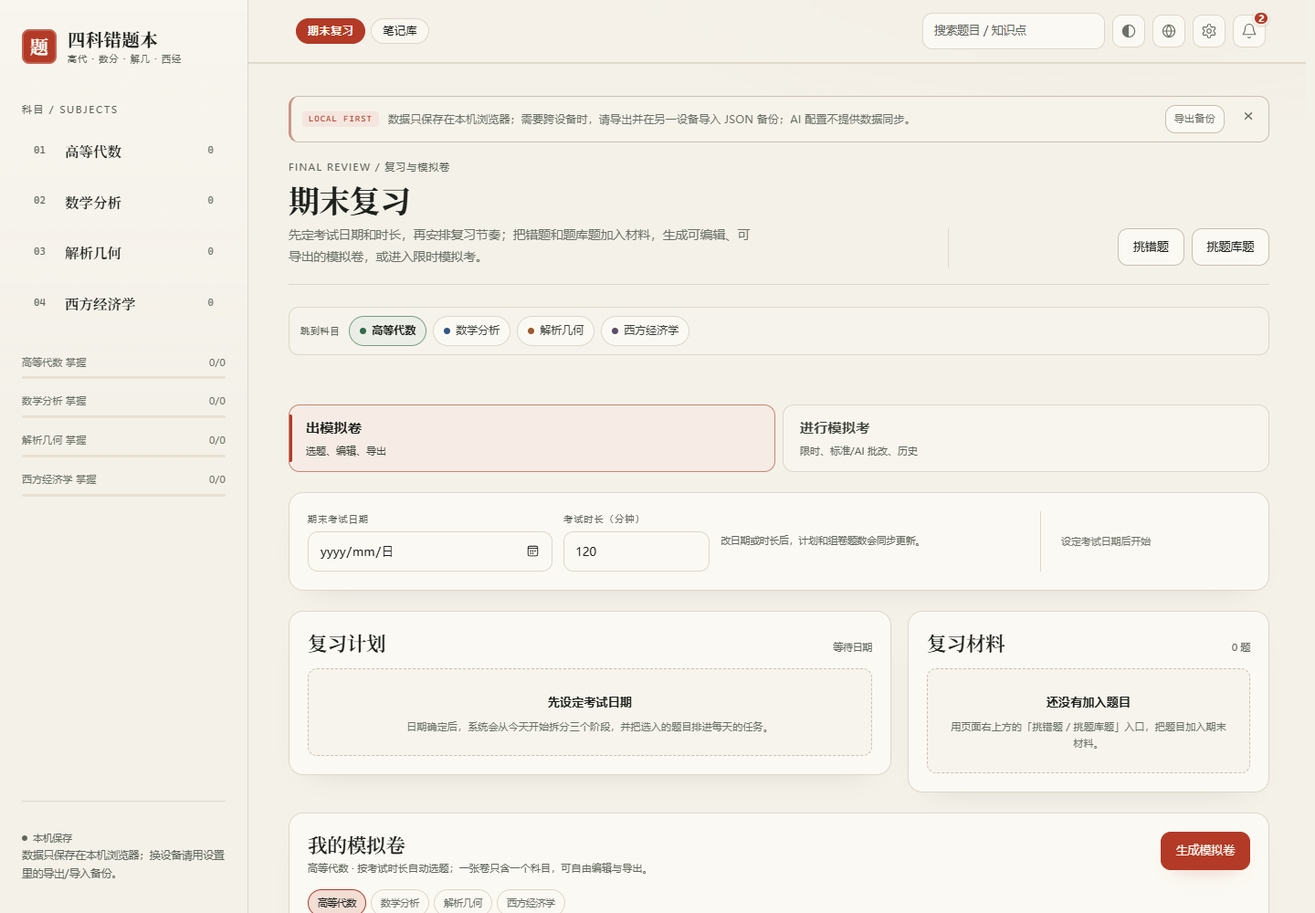
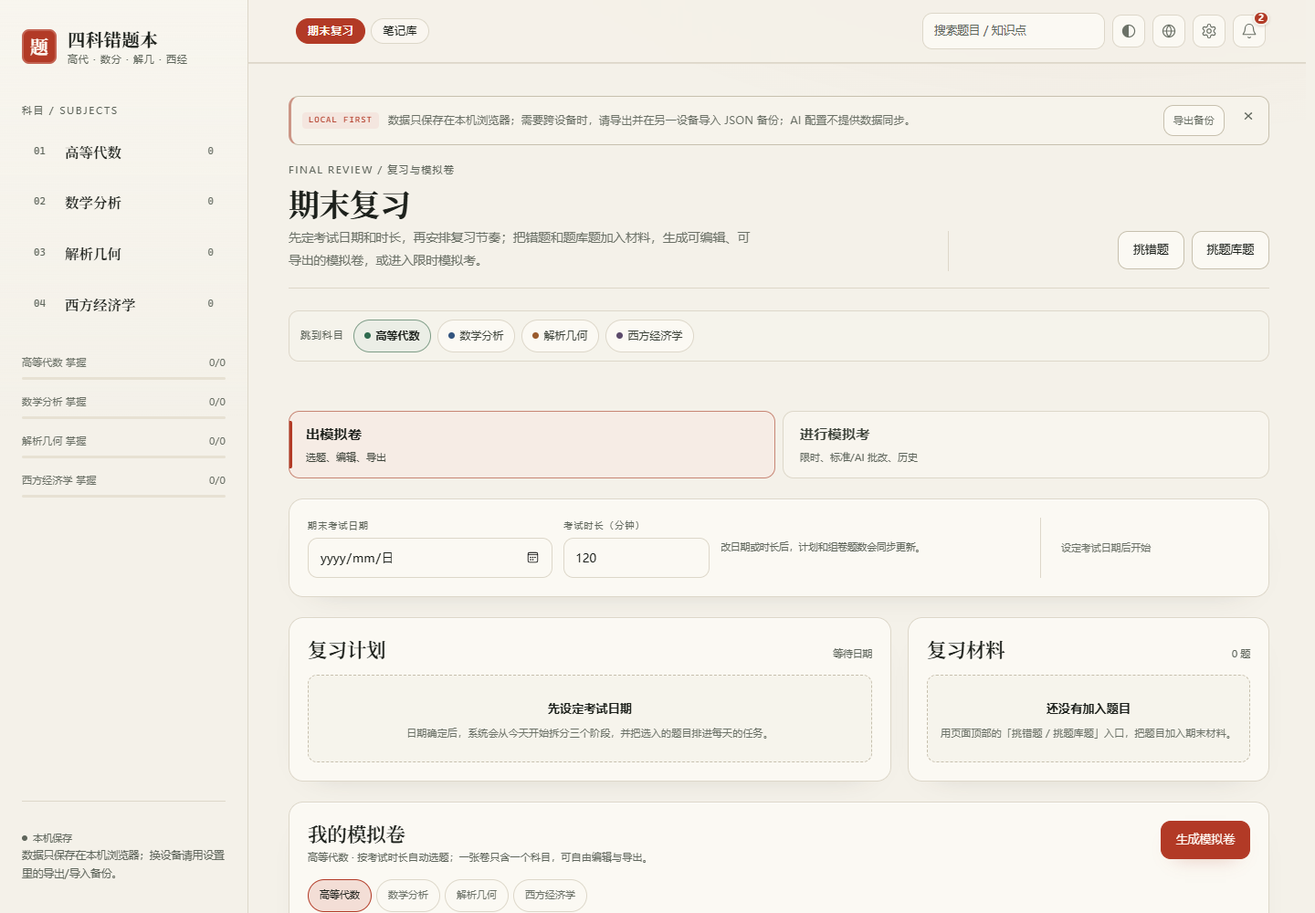
2026.11.10-27cec223: full-site touch, helper text and night CTA calibration

diff --git a/src/js/48-changelog.js b/src/js/48-changelog.js
@@ -6,9 +6,9 @@ var __BUILD_DAY = __BUILD_DAY_MATCH ? __BUILD_DAY_MATCH[1] + '-' + __BUILD_DAY_M
 var UPDATE_LOG = [
   {
     date: '2026-11-10',
-    title: '界面回退与真实进度',
-    historyTitle: '界面回退与真实进度',
-    summary: '在 11-10 已完成的界面与记录校准基础上，本轮把全站配色与版式恢复为 2026.11.10-2ea474da：暖米色纸面、砖红强调、巨型衬线问候、英文大写小标签、卡片和装饰阴影回到原样，首页恢复按小时变化的问候和用户称呼，欢迎弹窗恢复原有文字、图标、按钮与卡片；同时保留错题智能录入、AI 出题、AI 批改、笔记导入导出、扫描 OCR 等长任务的真实阶段、真实计数与真实等待时间。本块累计 19 项 / 19 组，56 项测试、严格 QA、站点一致性与 390 / 820 / 1440 检查通过。',
+    title: '界面回退与三端收口',
+    historyTitle: '界面回退与三端收口',
+    summary: '本轮把全站配色与版式恢复为 2026.11.10-2ea474da：暖米色纸面、砖红强调、巨型衬线问候、英文大写小标签、卡片和装饰阴影回到原样，首页恢复按小时变化的问候和用户称呼，欢迎弹窗恢复原有文字、图标、按钮与卡片；同时保留错题智能录入、AI 出题、AI 批改、笔记导入导出、扫描 OCR 等长任务的真实阶段、真实计数与真实等待时间，并收口三端触控尺寸、辅助字号与深夜科目指引。本块累计 22 项 / 22 组，57 项测试、严格 QA、站点一致性与 390 / 820 / 1440 检查通过。',
     items: [
       {
         group: '规范表格',
@@ -32,7 +32,7 @@ var UPDATE_LOG = [
       },
       {
         group: '触控可读',
-        text: '补充手机与平板的触控尺寸：页签、题库来源、期末科目与跳转按钮至少 40–44px；笔记库辅助标签、设置分区标记统一到 10px；品牌副标题改用更深的辅助色，提升小字对比度。',
+        text: '手机端顶栏与页脚图标统一到 40×40px，平板与桌面保持 36px；清空筛选、期末科目、科目跳转与模板复制按钮至少 34–40px，次级操作按钮统一 34px，不再出现 25–32px 的小点击区域；品牌副标题、页脚小标签与状态说明提升到 10.5–11px。',
       },
       {
         group: '题库卡片',
@@ -71,6 +71,18 @@ var UPDATE_LOG = [
         text: '390 / 820 / 1440 复查首页问候、欢迎弹窗、错题、题库、模板、规范、笔记、期末与更新记录：暖色样式一致，无横向溢出、无脚本错误，真实进度条保持原功能。',
       },
       {
+        group: '深夜文案',
+        text: '首页科目入口标题随小时切换：23:00–05:00 显示「明天想从哪一科继续？」，白天保持「想从哪一科开始？」；深夜不再一边劝休息一边催现在开始。',
+      },
+      {
+        group: '字号层级',
+        text: '统一三端辅助字号：品牌副标题 10.5px，首页提示与计数、筛选计数、科目跳转标签 11px，通知角标 10px，笔记分区标签 10px，避免 8.5–9.5px 的不可读小字。',
+      },
+      {
+        group: '期末指引',
+        text: '期末复习材料空态把「页面右上方」改为「页面顶部」，与手机端顶部入口一致，不再用桌面方向误导手机用户。',
+      },
+      {
         group: '真实进度',
         text: '错题智能录入、AI 出题、AI 批改、笔记导入导出与扫描 OCR 的长任务卡改为真实数据驱动：有总量时显示已完成 / 总数，没有总量时只显示活动条，不再按固定阶段编造 33%、67% 等假百分比。',
       },
@@ -84,29 +96,25 @@ var UPDATE_LOG = [
       },
       {
         group: '进度门禁',
-        text: '新增长任务进度回归测试：禁止固定百分比、要求秒数精确到 0.1 秒、完成必须显式标记、取消后浮层消失；三端 390 / 820 / 1440 复查进度面板不溢出、不遮挡取消按钮，测试总数增至 56。',
+        text: '新增长任务进度回归测试：禁止固定百分比、要求秒数精确到 0.1 秒、完成必须显式标记、取消后浮层消失；三端 390 / 820 / 1440 复查进度面板不溢出、不遮挡取消按钮，测试总数增至 57。',
       },
     ],
     notifyItems: [
       {
-        group: '配色回退',
-        text: '全站恢复 2ea474da 的暖米色纸面、砖红强调、卡片阴影与装饰层级，移除冷纸色和深墨绿。',
+        group: '触控可读',
+        text: '手机顶栏与页脚图标改为 40×40px，清空筛选、期末科目、科目跳转与模板复制至少 34–40px，次级按钮统一 34px，品牌副标题和辅助标签提升到 10.5–11px。',
       },
       {
-        group: '问候恢复',
-        text: '首页恢复按小时变化的问候与用户称呼，八段文案不同，标题不再固定。',
+        group: '深夜文案',
+        text: '23:00–05:00 首页科目入口改为「明天想从哪一科继续？」，不再一边劝休息一边催现在开始。',
       },
       {
-        group: '欢迎页恢复',
-        text: '欢迎弹窗恢复原有暖色、印章图标、服务卡片与按钮，不再使用冷色版式。',
+        group: '字号层级',
+        text: '统一三端辅助字号：品牌副标题 10.5px，首页提示与计数、筛选计数、科目跳转标签 11px，通知角标与笔记分区标签 10px。',
       },
       {
-        group: '图标恢复',
-        text: '品牌与工具图标、强调色、状态色全部回到 2ea 的暖色体系。',
-      },
-      {
-        group: '三端复查',
-        text: '390 / 820 / 1440 复查全部页面：暖色一致、无横向溢出、无脚本错误，真实进度条功能保留。',
+        group: '期末指引',
+        text: '期末复习材料空态从「页面右上方」改为「页面顶部」，与手机端入口一致。',
       },
     ],
   },

diff --git a/tests/regressions.test.js b/tests/regressions.test.js
@@ -625,6 +625,8 @@ test('notification signature covers notify items and final page avoids duplicate
   assert.equal(/final-head-facts/.test(finalJs),false,'期末首屏不能重复展示日期、时长和材料数');
   assert.equal(/final-empty-actions/.test(finalJs),false,'复习材料空态不能重复期末页顶部入口');
   assert.match(finalJs,/final-countdown is-empty/,'未设定日期时不能留下孤立的破折号');
+  assert.match(finalJs,/页面顶部的「挑错题 \/ 挑题库题」/,'空态指引必须与手机端顶部入口一致');
+  assert.equal(/页面右上方/.test(finalJs),false,'不能再用桌面端的右上方向指引手机用户');
   assert.match(read('src/styles.css'),/@media \(max-width: 900px\)[\s\S]{0,200}\.topbar \{ position: static; \}/,'手机与平板顶栏不再吸顶遮挡内容');
 });
 
@@ -640,9 +642,20 @@ test('home restores warm 2ea palette, daily greeting and welcome dialog',()=>{
   assert.match(tpl,/id="homeGreeting"/,'首页必须有问候标题');
   assert.match(tpl,/id="homeWelcome"/,'首页必须有每日问候副标题');
   assert.match(tpl,/id="homeWelcomeNote"/,'首页必须有问候提示');
+  assert.match(tpl,/id="homeSubjectsTitle"/,'科目入口标题必须可随时段更新');
   assert.match(shell,/function homeWelcome\(hour\)/,'问候必须随小时变化');
+  assert.match(shell,/明天想从哪一科继续/, '深夜问候必须把科目标题改成明天继续');
   assert.match(shell,/state\.prefs\.userName/,'问候必须带上用户称呼');
   assert.match(tpl,/class="dlg-api-welcome"/,'欢迎弹窗必须保留原有结构');
   assert.match(tpl,/apiwelcome-mark/,'欢迎弹窗必须保留原有图标');
   assert.match(tpl,/apiwelcome-list/,'欢迎弹窗必须保留原有卡片');
+});
+
+test('mobile and tablet controls meet touch target and helper text sizes',()=>{
+  const css=read('src/styles.css');
+  assert.match(css,/@media \(max-width: 420px\)[\s\S]{0,180}\.icon-btn,[\s\S]{0,80}\.home-icon-group \.icon-btn \{[\s\S]{0,80}width: 40px;[\s\S]{0,40}height: 40px;/, '手机顶栏与页脚图标必须至少 40px');
+  assert.match(css,/\.filter-clear \{[\s\S]{0,80}min-height: 36px;/, '清空筛选必须有可点高度');
+  assert.match(css,/\.final-subject-tab \{[\s\S]{0,100}min-height: 36px;/, '期末科目按钮必须有可点高度');
+  assert.match(css,/\.tpl-body \.linkish \{[\s\S]{0,120}min-height: 36px;/, '模板复制按钮必须有可点高度');
+  assert.match(css,/\.brand-sub,[\s\S]{0,60}\.home-brand-sub \{ font-size: 10.5px; \}/, '品牌副标题不能低于 10.5px');
 });

diff --git a/src/styles.css b/src/styles.css
@@ -5973,3 +5973,59 @@ p, li, .md p, .md li { text-wrap: pretty; }
   .ai-progress-live-dot { animation: none; }
   .ai-progress-track::after { display: none; }
 }
+
+/* 2026-11-10: 三端可读性与触控收口 */
+.brand-sub,
+.home-brand-sub { font-size: 10.5px; }
+.eyebrow { font-size: 10.8px; }
+.home-kicker,
+.hs-count,
+.filter-count,
+.subject-jump-label { font-size: 11px; }
+.notif-badge { font-size: 10px; }
+.note-section-kicker,
+.note-section-meta { font-size: 10px; }
+.final-subject-tab {
+  min-height: 36px;
+  padding: 6px 12px;
+  font-size: 11px;
+}
+.subject-jump-btn,
+.note-section-add { min-height: 36px; }
+.filter-clear {
+  min-height: 36px;
+  padding-inline: 12px;
+}
+.tpl-body .linkish {
+  display: inline-flex;
+  align-items: center;
+  min-height: 36px;
+}
+@media (max-width: 900px) {
+  .final-subject-tab,
+  .subject-jump-btn,
+  .note-section-add,
+  .filter-clear,
+  .tpl-body .linkish { min-height: 40px; }
+}
+@media (max-width: 640px) {
+  html.is-notes-module .mobile-brand .brand-sub { font-size: 10.5px; }
+}
+@media (max-width: 420px) {
+  .icon-btn,
+  .home-icon-group .icon-btn {
+    width: 40px;
+    height: 40px;
+  }
+  #tabs .tab { font-size: 11px; }
+}
+
+/* 2026-11-10: 次级按钮与状态分段统一到可点高度 */
+.btn-xs {
+  min-height: 34px;
+  padding: 6px 10px;
+}
+.entry-filters .seg button { min-height: 36px; }
+@media (max-width: 900px) {
+  .btn-xs { min-height: 36px; }
+}

diff --git a/src/js/58-final.js b/src/js/58-final.js
@@ -213,7 +213,7 @@ function finalSubjectTabsHtml(showNote) {
 function finalMaterialsHtml() {
   var list = finalMaterials();
   if (!list.length) {
-    return '<div class="final-empty"><b>还没有加入题目</b><p>用页面右上方的「挑错题 / 挑题库题」入口，把题目加入期末材料。</p></div>';
+    return '<div class="final-empty"><b>还没有加入题目</b><p>用页面顶部的「挑错题 / 挑题库题」入口，把题目加入期末材料。</p></div>';
   }
   return '<div class="final-material-list">' + list.map(function (m) {
     return '<div class="final-material">' +

diff --git a/src/js/15-shell.js b/src/js/15-shell.js
@@ -65,6 +65,11 @@ function renderHomeClock() {
   if (welcome) welcome.textContent = info.line;
   var note = qs('#homeWelcomeNote');
   if (note) note.textContent = info.note;
+  var subjectsTitle = qs('#homeSubjectsTitle');
+  if (subjectsTitle) {
+    var h = new Date().getHours();
+    subjectsTitle.textContent = (h < 5 || h >= 23) ? '明天想从哪一科继续？' : '想从哪一科开始？';
+  }
   var date = qs('#homeDate');
   if (date) {
     var d = new Date();

diff --git a/src/index.template.html b/src/index.template.html
@@ -53,7 +53,7 @@ __STYLES__
       <p class="home-welcome-note" id="homeWelcomeNote"></p>
 
       <div class="home-subjects-head">
-        <span>想从哪一科开始？</span>
+        <span id="homeSubjectsTitle">想从哪一科开始？</span>
         <span>不用全看 挑一科就好</span>
       </div>
       <div class="home-subjects" id="homeSubjects"></div>

diff --git a/README.md b/README.md
@@ -9,7 +9,7 @@
 <a href="https://github.com/lanzaihua/lanzaihua.github.io"><img src="https://img.shields.io/badge/SOURCE-MIT-C2410C?style=for-the-badge&labelColor=7C2D12" alt="Source MIT"></a>
 <a href="https://lanzaihua.github.io/"><img src="https://img.shields.io/badge/LIVE-ONLINE-B91C1C?style=for-the-badge&labelColor=7F1D1D" alt="Live"></a>
 <a href="https://github.com/lanzaihua/lanzaihua.github.io/releases"><img src="https://img.shields.io/badge/RELEASE-v2026.11.10-15803D?style=for-the-badge&labelColor=14532D" alt="Release"></a>
-<a href="#更新记录"><img src="https://img.shields.io/badge/VERSION-2026.11.10--25001bac-1D4ED8?style=for-the-badge&labelColor=1E3A8A" alt="Version"></a>
+<a href="#更新记录"><img src="https://img.shields.io/badge/VERSION-2026.11.10--27cec223-1D4ED8?style=for-the-badge&labelColor=1E3A8A" alt="Version"></a>
 <a href="#隐私与限制"><img src="https://img.shields.io/badge/DATA-local%20first-B45309?style=for-the-badge&labelColor=78350F" alt="Local first"></a>
 <a href="#技术说明"><img src="https://img.shields.io/badge/MODE-single%20file-6D28D9?style=for-the-badge&labelColor=4C1D95" alt="Single file"></a>
 <a href="https://github.com/lanzaihua/lanzaihua.github.io"><img src="https://img.shields.io/badge/HOST-GitHub%20Pages-A21CAF?style=for-the-badge&labelColor=701A75" alt="GitHub Pages"></a>
@@ -58,7 +58,7 @@
 | `src/styles.css` · `src/index.template.html` | 全站样式与页面模板 |
 | `build.js` · `server.js` · `skills.js` | 构建、局域网同步服务与技能索引 |
 | `tools/` | 题库 QA、站点一致性、发布与源码打包脚本 |
-| `tests/` | 56 项回归测试，覆盖数据保护、公式渲染、通知、进度、界面与模拟考 |
+| `tests/` | 57 项回归测试，覆盖数据保护、公式渲染、通知、进度、界面与模拟考 |
 
 仓库内的 `src/` 不含 `src/data/` 题库数据，单独克隆仓库不能直接构建单文件网页；完整构建请先解压 `source.zip`。
 
@@ -201,11 +201,11 @@ make check                                      # 同上，Makefile 入口
 
 ## 更新记录
 
-### 2026-11-10 · 界面回退与真实进度
+### 2026-11-10 · 界面回退与三端收口
 
-**19 项 · 19 组**
+**22 项 · 22 组**
 
-在 11-10 已完成的界面与记录校准基础上，本轮把全站配色与版式恢复为 2026.11.10-2ea474da：暖米色纸面、砖红强调、巨型衬线问候、英文大写小标签、卡片和装饰阴影回到原样，首页恢复按小时变化的问候和用户称呼，欢迎弹窗恢复原有文字、图标、按钮与卡片；同时保留错题智能录入、AI 出题、AI 批改、笔记导入导出、扫描 OCR 等长任务的真实阶段、真实计数与真实等待时间。本块累计 19 项 / 19 组，56 项测试、严格 QA、站点一致性与 390 / 820 / 1440 检查通过。
+本轮把全站配色与版式恢复为 2026.11.10-2ea474da：暖米色纸面、砖红强调、巨型衬线问候、英文大写小标签、卡片和装饰阴影回到原样，首页恢复按小时变化的问候和用户称呼，欢迎弹窗恢复原有文字、图标、按钮与卡片；同时保留错题智能录入、AI 出题、AI 批改、笔记导入导出、扫描 OCR 等长任务的真实阶段、真实计数与真实等待时间，并收口三端触控尺寸、辅助字号与深夜科目指引。本块累计 22 项 / 22 组，57 项测试、严格 QA、站点一致性与 390 / 820 / 1440 检查通过。
 
 | 分组 | 本次更新 |
 |---|---|
@@ -214,7 +214,7 @@ make check                                      # 同上，Makefile 入口
 | **通知要点** | 更新通知的计数从「3 项」改为「3 条要点」，与正文的 28 项 / 28 组区分开；通知签名纳入 notifyItems，同一天只改某组文字也会补发一条新通知，旧组不会重复；快照只在通知真正发出后保存，刷新页面不会重发旧内容。 |
 | **期末收口** | 期末复习首屏不再重复显示考试日期、时长和复习材料数，这些信息只留在设置表单与复习材料面板；复习材料空态不再重复顶部「挑错题 / 挑题库题」入口；未设日期时不再留下孤立的破折号。 |
 | **设置文案** | 设置里的「当前规模」改为「当前科目规模」，避免被当成全站总量，并移除容易被误读为产品版本的 v1 标签；首次欢迎语改为「欢迎使用四科错题本」。 |
-| **触控可读** | 补充手机与平板的触控尺寸：页签、题库来源、期末科目与跳转按钮至少 40–44px；笔记库辅助标签、设置分区标记统一到 10px；品牌副标题改用更深的辅助色，提升小字对比度。 |
+| **触控可读** | 手机端顶栏与页脚图标统一到 40×40px，平板与桌面保持 36px；清空筛选、期末科目、科目跳转与模板复制按钮至少 34–40px，次级操作按钮统一 34px，不再出现 25–32px 的小点击区域；品牌副标题、页脚小标签与状态说明提升到 10.5–11px。 |
 | **题库卡片** | 题库卡片标题已含「客观题 / 填空题 / 主观题」时，右侧不再重复同一枚题型标签；标题缺少题型时仍保留标签，筛选与题目类型不受影响。 |
 | **记录校准** | 修正 11-02 更新记录中的退格损坏字符，把解析几何的旧计数改为 900、「2751 题」改为 2750 题，与同块 8250 = 1500 + 3450 + 900 + 2400 对齐；改写 README 的 11-08 说明，删去「57 项块只展示 30 项、删除可访问性组」的矛盾表述。 README 的「源码结构」「仓库语言与工具链」「源码、构建与开源」三块合并为一节「源码、构建与开源」，去掉重复的许可证、构建与本机运行说明。 |
 | **Release 归并** | GitHub Releases 同一日期只保留一整块，标签统一为纯日期：11-09 为 v2026.11.09、11-08 为 v2026.11.08、10-25 为 v2026.10.25；带 -2…-10 等后缀的 release 与标签已清理，不再出现在 Releases 页。 |
@@ -224,6 +224,9 @@ make check                                      # 同上，Makefile 入口
 | **欢迎页恢复** | 欢迎弹窗恢复原有暖色样式、圆形印章图标、服务列表卡片、说明文字和「先逛逛 / 去设置」按钮，不再使用冷色版式与英文标签。 |
 | **图标恢复** | 品牌标记、页脚工具、通知铃铛、关闭按钮等图标及强调色、状态色全部回到 2ea 的暖色体系；冷色描边与墨绿选中态不再出现。 |
 | **三端复查** | 390 / 820 / 1440 复查首页问候、欢迎弹窗、错题、题库、模板、规范、笔记、期末与更新记录：暖色样式一致，无横向溢出、无脚本错误，真实进度条保持原功能。 |
+| **深夜文案** | 首页科目入口标题随小时切换：23:00–05:00 显示「明天想从哪一科继续？」，白天保持「想从哪一科开始？」；深夜不再一边劝休息一边催现在开始。 |
+| **字号层级** | 统一三端辅助字号：品牌副标题 10.5px，首页提示与计数、筛选计数、科目跳转标签 11px，通知角标 10px，笔记分区标签 10px，避免 8.5–9.5px 的不可读小字。 |
+| **期末指引** | 期末复习材料空态把「页面右上方」改为「页面顶部」，与手机端顶部入口一致，不再用桌面方向误导手机用户。 |
 | **真实进度** | 错题智能录入、AI 出题、AI 批改、笔记导入导出与扫描 OCR 的长任务卡改为真实数据驱动：有总量时显示已完成 / 总数，没有总量时只显示活动条，不再按固定阶段编造 33%、67% 等假百分比。 |
 | **实时等待** | 等待时间从请求发出开始累计，每 250 毫秒刷新到十分之一秒（如「已等待 5.2 秒」）；活动圆点持续呼吸，阶段名与当前说明随真实回调切换，界面不会停在静止的加载文案上。同一天补充通知的标题时间也改按本机时区显示，不再出现 UTC 时间。 |
 | **逐题推进** | AI 出题按每批返回的题目数累加，显示「已生成 6 / 27 题」并继续请求下一批；AI 批改在模型返回后按题逐条核对并让出渲染帧，进度条与阶段文字随真实核对进度更新，完成后才切到结果页。 |

diff --git a/CHANGELOG.md b/CHANGELOG.md
@@ -2,20 +2,20 @@
 
 四科错题本的版本变化。网页内可在「设置与同步 → 更新记录」查看最近版本；更早记录默认折叠。
 
-## 界面回退与真实进度
+## 界面回退与三端收口
 
 2026-11-10
 
-**19 项 · 19 组**
+**22 项 · 22 组**
 
-在 11-10 已完成的界面与记录校准基础上，本轮把全站配色与版式恢复为 2026.11.10-2ea474da：暖米色纸面、砖红强调、巨型衬线问候、英文大写小标签、卡片和装饰阴影回到原样，首页恢复按小时变化的问候和用户称呼，欢迎弹窗恢复原有文字、图标、按钮与卡片；同时保留错题智能录入、AI 出题、AI 批改、笔记导入导出、扫描 OCR 等长任务的真实阶段、真实计数与真实等待时间。本块累计 19 项 / 19 组，56 项测试、严格 QA、站点一致性与 390 / 820 / 1440 检查通过。
+本轮把全站配色与版式恢复为 2026.11.10-2ea474da：暖米色纸面、砖红强调、巨型衬线问候、英文大写小标签、卡片和装饰阴影回到原样，首页恢复按小时变化的问候和用户称呼，欢迎弹窗恢复原有文字、图标、按钮与卡片；同时保留错题智能录入、AI 出题、AI 批改、笔记导入导出、扫描 OCR 等长任务的真实阶段、真实计数与真实等待时间，并收口三端触控尺寸、辅助字号与深夜科目指引。本块累计 22 项 / 22 组，57 项测试、严格 QA、站点一致性与 390 / 820 / 1440 检查通过。
 
 - **规范表格**：修复规范页表格被拆错行：裸公式扫描器把单元格之间的管道符和「2–4」当成公式，导致「条目信息」挤进要求列、页面位置列空白；表格行现在完整交给 Markdown 表格渲染，三列对齐，单元格内公式仍按行内公式处理。
 - **手机顶栏**：手机与平板上的科目顶栏不再整块吸顶：品牌、搜索、科目切换、页签和期末/笔记库入口随页面滚走，阅读题目时不再被 150–234px 高的顶栏挡住；桌面端仍保留吸顶导航。
 - **通知要点**：更新通知的计数从「3 项」改为「3 条要点」，与正文的 28 项 / 28 组区分开；通知签名纳入 notifyItems，同一天只改某组文字也会补发一条新通知，旧组不会重复；快照只在通知真正发出后保存，刷新页面不会重发旧内容。
 - **期末收口**：期末复习首屏不再重复显示考试日期、时长和复习材料数，这些信息只留在设置表单与复习材料面板；复习材料空态不再重复顶部「挑错题 / 挑题库题」入口；未设日期时不再留下孤立的破折号。
 - **设置文案**：设置里的「当前规模」改为「当前科目规模」，避免被当成全站总量，并移除容易被误读为产品版本的 v1 标签；首次欢迎语改为「欢迎使用四科错题本」。
-- **触控可读**：补充手机与平板的触控尺寸：页签、题库来源、期末科目与跳转按钮至少 40–44px；笔记库辅助标签、设置分区标记统一到 10px；品牌副标题改用更深的辅助色，提升小字对比度。
+- **触控可读**：手机端顶栏与页脚图标统一到 40×40px，平板与桌面保持 36px；清空筛选、期末科目、科目跳转与模板复制按钮至少 34–40px，次级操作按钮统一 34px，不再出现 25–32px 的小点击区域；品牌副标题、页脚小标签与状态说明提升到 10.5–11px。
 - **题库卡片**：题库卡片标题已含「客观题 / 填空题 / 主观题」时，右侧不再重复同一枚题型标签；标题缺少题型时仍保留标签，筛选与题目类型不受影响。
 - **记录校准**：修正 11-02 更新记录中的退格损坏字符，把解析几何的旧计数改为 900、「2751 题」改为 2750 题，与同块 8250 = 1500 + 3450 + 900 + 2400 对齐；改写 README 的 11-08 说明，删去「57 项块只展示 30 项、删除可访问性组」的矛盾表述。 README 的「源码结构」「仓库语言与工具链」「源码、构建与开源」三块合并为一节「源码、构建与开源」，去掉重复的许可证、构建与本机运行说明。
 - **Release 归并**：GitHub Releases 同一日期只保留一整块，标签统一为纯日期：11-09 为 v2026.11.09、11-08 为 v2026.11.08、10-25 为 v2026.10.25；带 -2…-10 等后缀的 release 与标签已清理，不再出现在 Releases 页。
@@ -25,6 +25,9 @@
 - **欢迎页恢复**：欢迎弹窗恢复原有暖色样式、圆形印章图标、服务列表卡片、说明文字和「先逛逛 / 去设置」按钮，不再使用冷色版式与英文标签。
 - **图标恢复**：品牌标记、页脚工具、通知铃铛、关闭按钮等图标及强调色、状态色全部回到 2ea 的暖色体系；冷色描边与墨绿选中态不再出现。
 - **三端复查**：390 / 820 / 1440 复查首页问候、欢迎弹窗、错题、题库、模板、规范、笔记、期末与更新记录：暖色样式一致，无横向溢出、无脚本错误，真实进度条保持原功能。
+- **深夜文案**：首页科目入口标题随小时切换：23:00–05:00 显示「明天想从哪一科继续？」，白天保持「想从哪一科开始？」；深夜不再一边劝休息一边催现在开始。
+- **字号层级**：统一三端辅助字号：品牌副标题 10.5px，首页提示与计数、筛选计数、科目跳转标签 11px，通知角标 10px，笔记分区标签 10px，避免 8.5–9.5px 的不可读小字。
+- **期末指引**：期末复习材料空态把「页面右上方」改为「页面顶部」，与手机端顶部入口一致，不再用桌面方向误导手机用户。
 - **真实进度**：错题智能录入、AI 出题、AI 批改、笔记导入导出与扫描 OCR 的长任务卡改为真实数据驱动：有总量时显示已完成 / 总数，没有总量时只显示活动条，不再按固定阶段编造 33%、67% 等假百分比。
 - **实时等待**：等待时间从请求发出开始累计，每 250 毫秒刷新到十分之一秒（如「已等待 5.2 秒」）；活动圆点持续呼吸，阶段名与当前说明随真实回调切换，界面不会停在静止的加载文案上。同一天补充通知的标题时间也改按本机时区显示，不再出现 UTC 时间。
 - **逐题推进**：AI 出题按每批返回的题目数累加，显示「已生成 6 / 27 题」并继续请求下一批；AI 批改在模型返回后按题逐条核对并让出渲染帧，进度条与阶段文字随真实核对进度更新，完成后才切到结果页。
